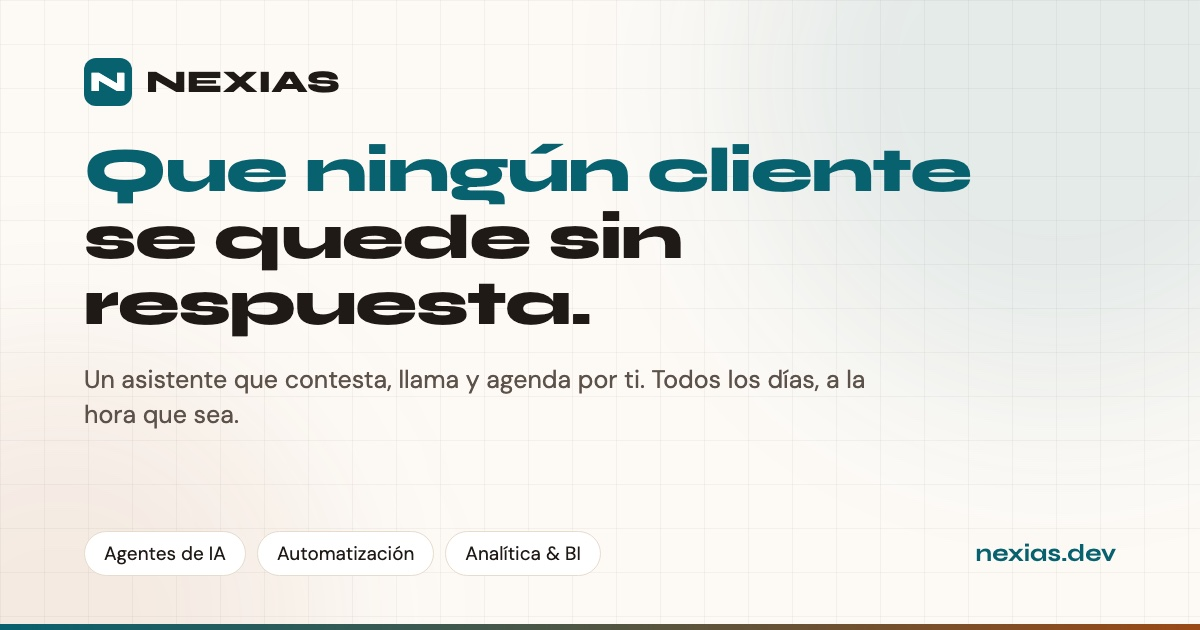
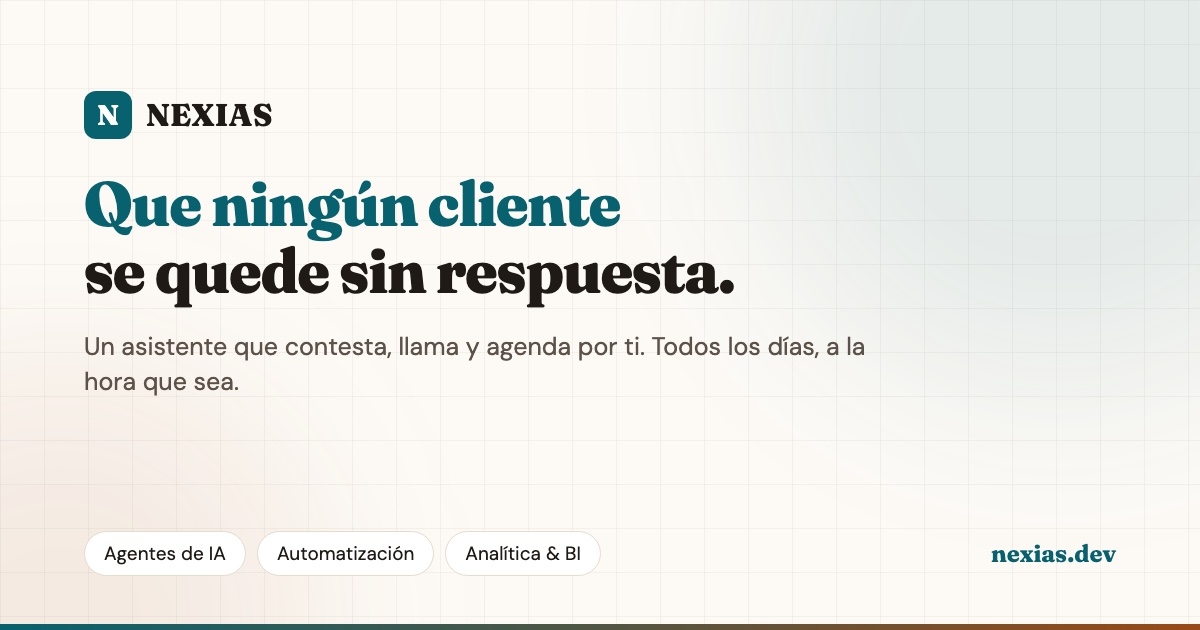
Cambiar Syne por Fraunces en los títulos
Syne es una tipografía de cartel: muy ancha, interletrado apretado y
formas poco convencionales en la g, la q y la e. A tamaño de titular se
leía como un bloque denso — costaba separar las palabras, y para un
lector que no tiene veinte años, más. Explica también por qué durante la
revisión los títulos de sección parecían apagados aunque el color medido
fuera idéntico al del hero: no era el color, era la letra.

Fraunces se lee de un vistazo y añade lo que una geométrica no da: una
serif con oficio comunica solidez, que es lo que necesita quien va a
confiarnos su cartera o la agenda de su clínica. Y contrasta con DM Sans
del cuerpo, así que la jerarquía deja de depender solo del tamaño.

Como ocupa menos ancho, el titular del hero recupera cuerpo: de los 52px
a los que Syne obligaba para que no se partiera, a 64px. El interletrado
se afloja, que es lo que pide una serif.

Se activa font-optical-sizing: el eje opsz de Fraunces afina los remates
y abre el contraste a tamaños grandes, que es justo lo que hace legible
un titular.

Imagen OG regenerada con la nueva tipografía.

Changed region(s): [[0.0617, 0.0905, 0.8325, 0.6937], [0.8017, 0.8444, 0.925, 0.9048]]

diff --git a/src/styles/global.css b/src/styles/global.css
@@ -32,9 +32,22 @@ body {
 }
 
 /* ── Typography ───────────────────────────────────────────── */
+/*
+ * Fraunces en vez de Syne.
+ *
+ * Syne es una tipografía de cartel: muy ancha, interletrado apretado y formas
+ * poco convencionales en la g, la q y la e. A tamaño de titular se leía como
+ * un bloque denso, y obligaba a topar el hero en 52px y partirlo en tres
+ * líneas para que cupiera. Una serif con oficio comunica además solidez, que
+ * es lo que necesita quien va a confiarnos su cartera o su agenda.
+ *
+ * `opsz` es el eje de tamaño óptico: a tamaños grandes afina los remates y
+ * abre el contraste, que es justo lo que hace legible un titular.
+ */
 h1, h2, h3, h4, h5, h6 {
-  font-family: "Syne", sans-serif;
+  font-family: "Fraunces", Georgia, serif;
   font-weight: 700;
+  font-optical-sizing: auto;
 }
 
 /* ── Gradient text ────────────────────────────────────────── */
